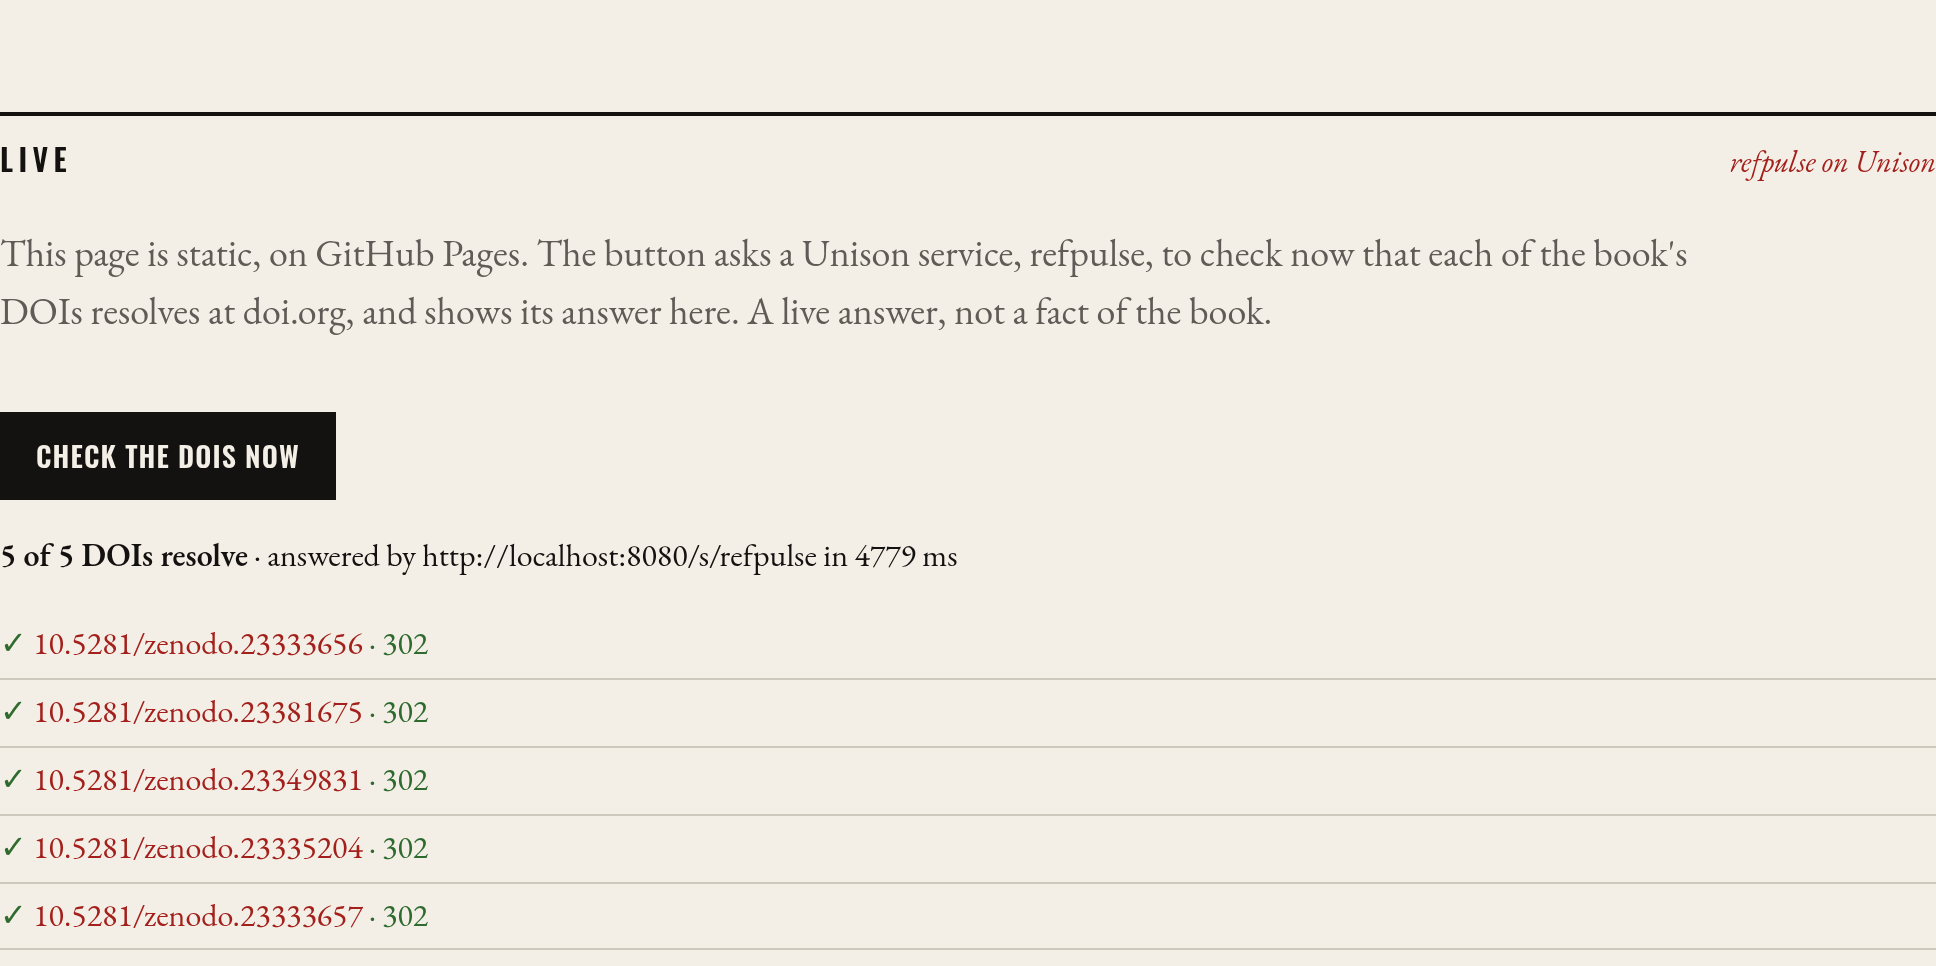
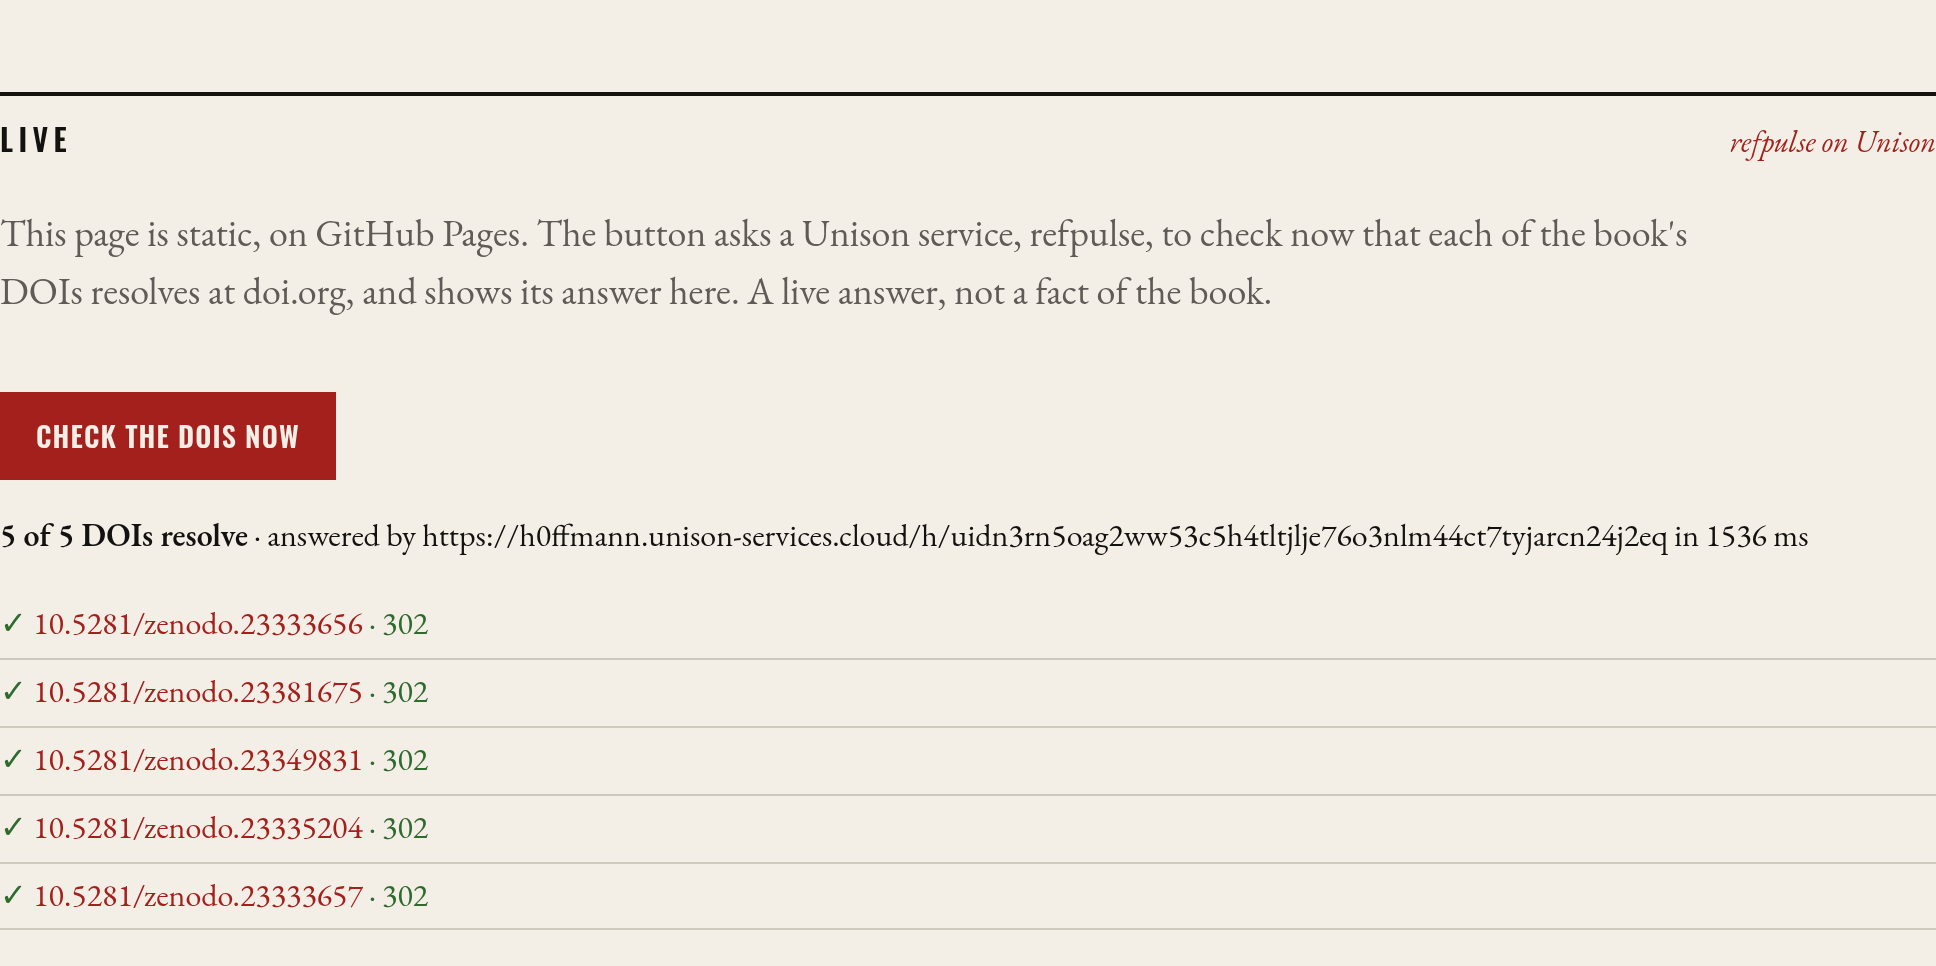
site: the Live button asks refpulse on Unison Cloud
just unison-deploy put refpulse on Unison Cloud; the button now asks its
hash URL. Naming the service (/s/refpulse) failed with 401, so the name
waits. The screenshot is the built site answered by the deployed service.

diff --git a/unison/refpulse/README.md b/unison/refpulse/README.md
@@ -96,8 +96,12 @@ call `localhost`, after the prompt. A tunnel's public HTTPS address does not nee
   `@unison/base` 7.20.0, `@unison/cloud` 27.3.1 and `@unison/routes` 7.0.2. `just unison-serve`
   ran it in the local runtime: `GET /health` gave 200, and `GET /check` gave 302 for the book's
   DOI and 404 for a made-up one, with `Access-Control-Allow-Origin: *`.
-- **Not yet done: the deploy.** `just unison-deploy` needs the owner's Unison Cloud login. Its
-  printed URL then goes into `refpulse_url` in `site/src/closed_source_site/app.gleam`.
+- **Deployed (15 October 2026).** `just unison-deploy` put refpulse on Unison Cloud at
+  `https://h0ffmann.unison-services.cloud/h/uidn3rn5oag2ww53c5h4tltjlje76o3nlm44ct7tyjarcn24j2eq`.
+  It answered `/health` 200, and `/check` 302 and 404, with the CORS header. The site's
+  `refpulse_url` is this address. The step after it, `ServiceName.assign` (the stable name
+  `/s/refpulse`), failed with 401 Unauthorized. When the name works, put `/s/refpulse` in
+  `refpulse_url`: a name stays the same when the code changes, and a hash does not.
 - **Next.** The checks run one after another, which takes about 0.5 s per DOI. `Remote.fork` and
   `Remote.await` could run them at the same time, on many machines, if the forked task may call
   `Http`. That is the "distributed" step, after this one compiles.
